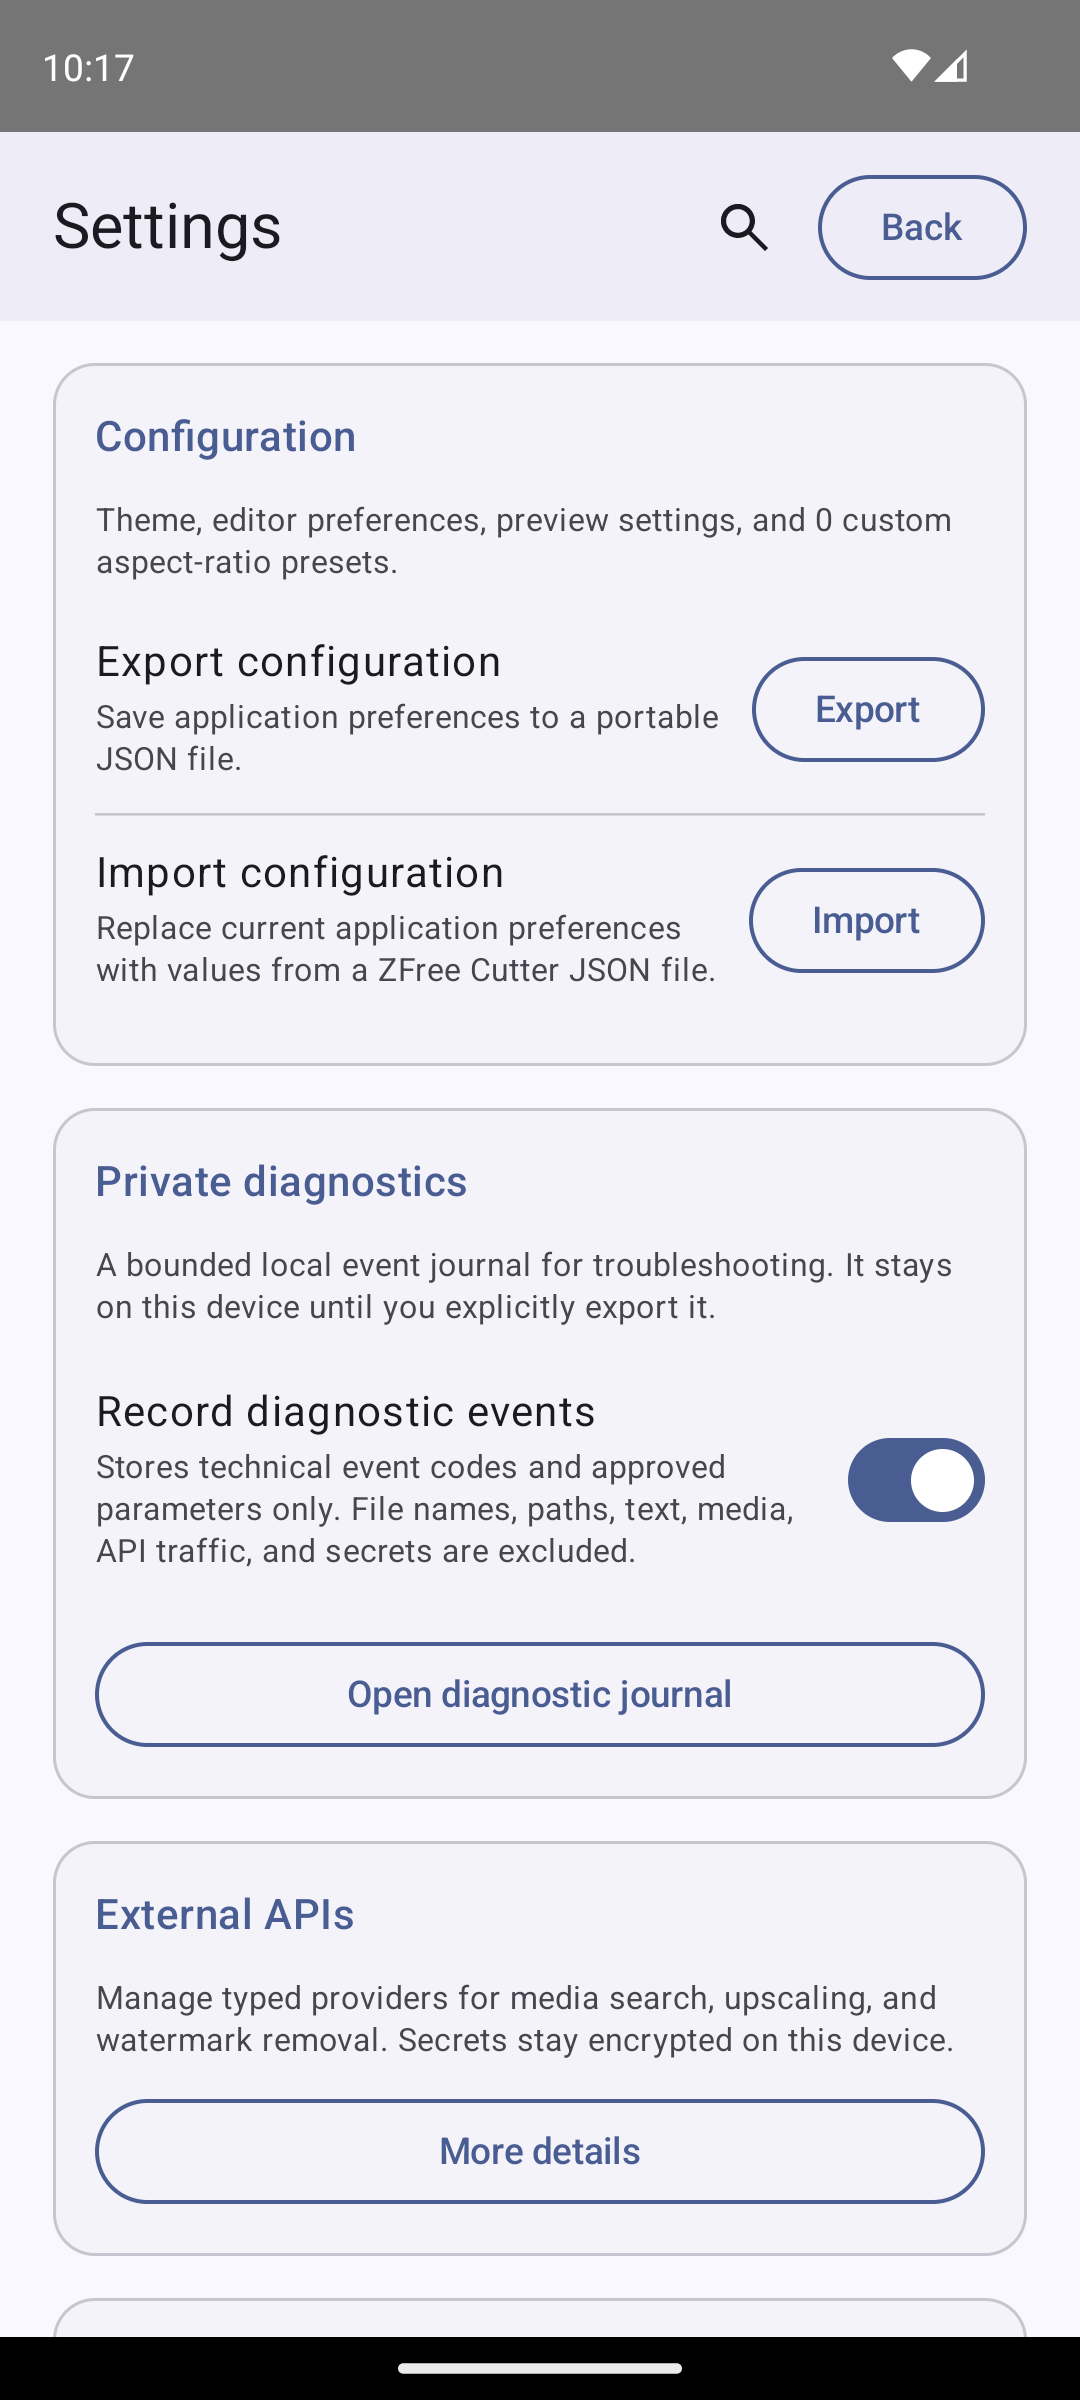
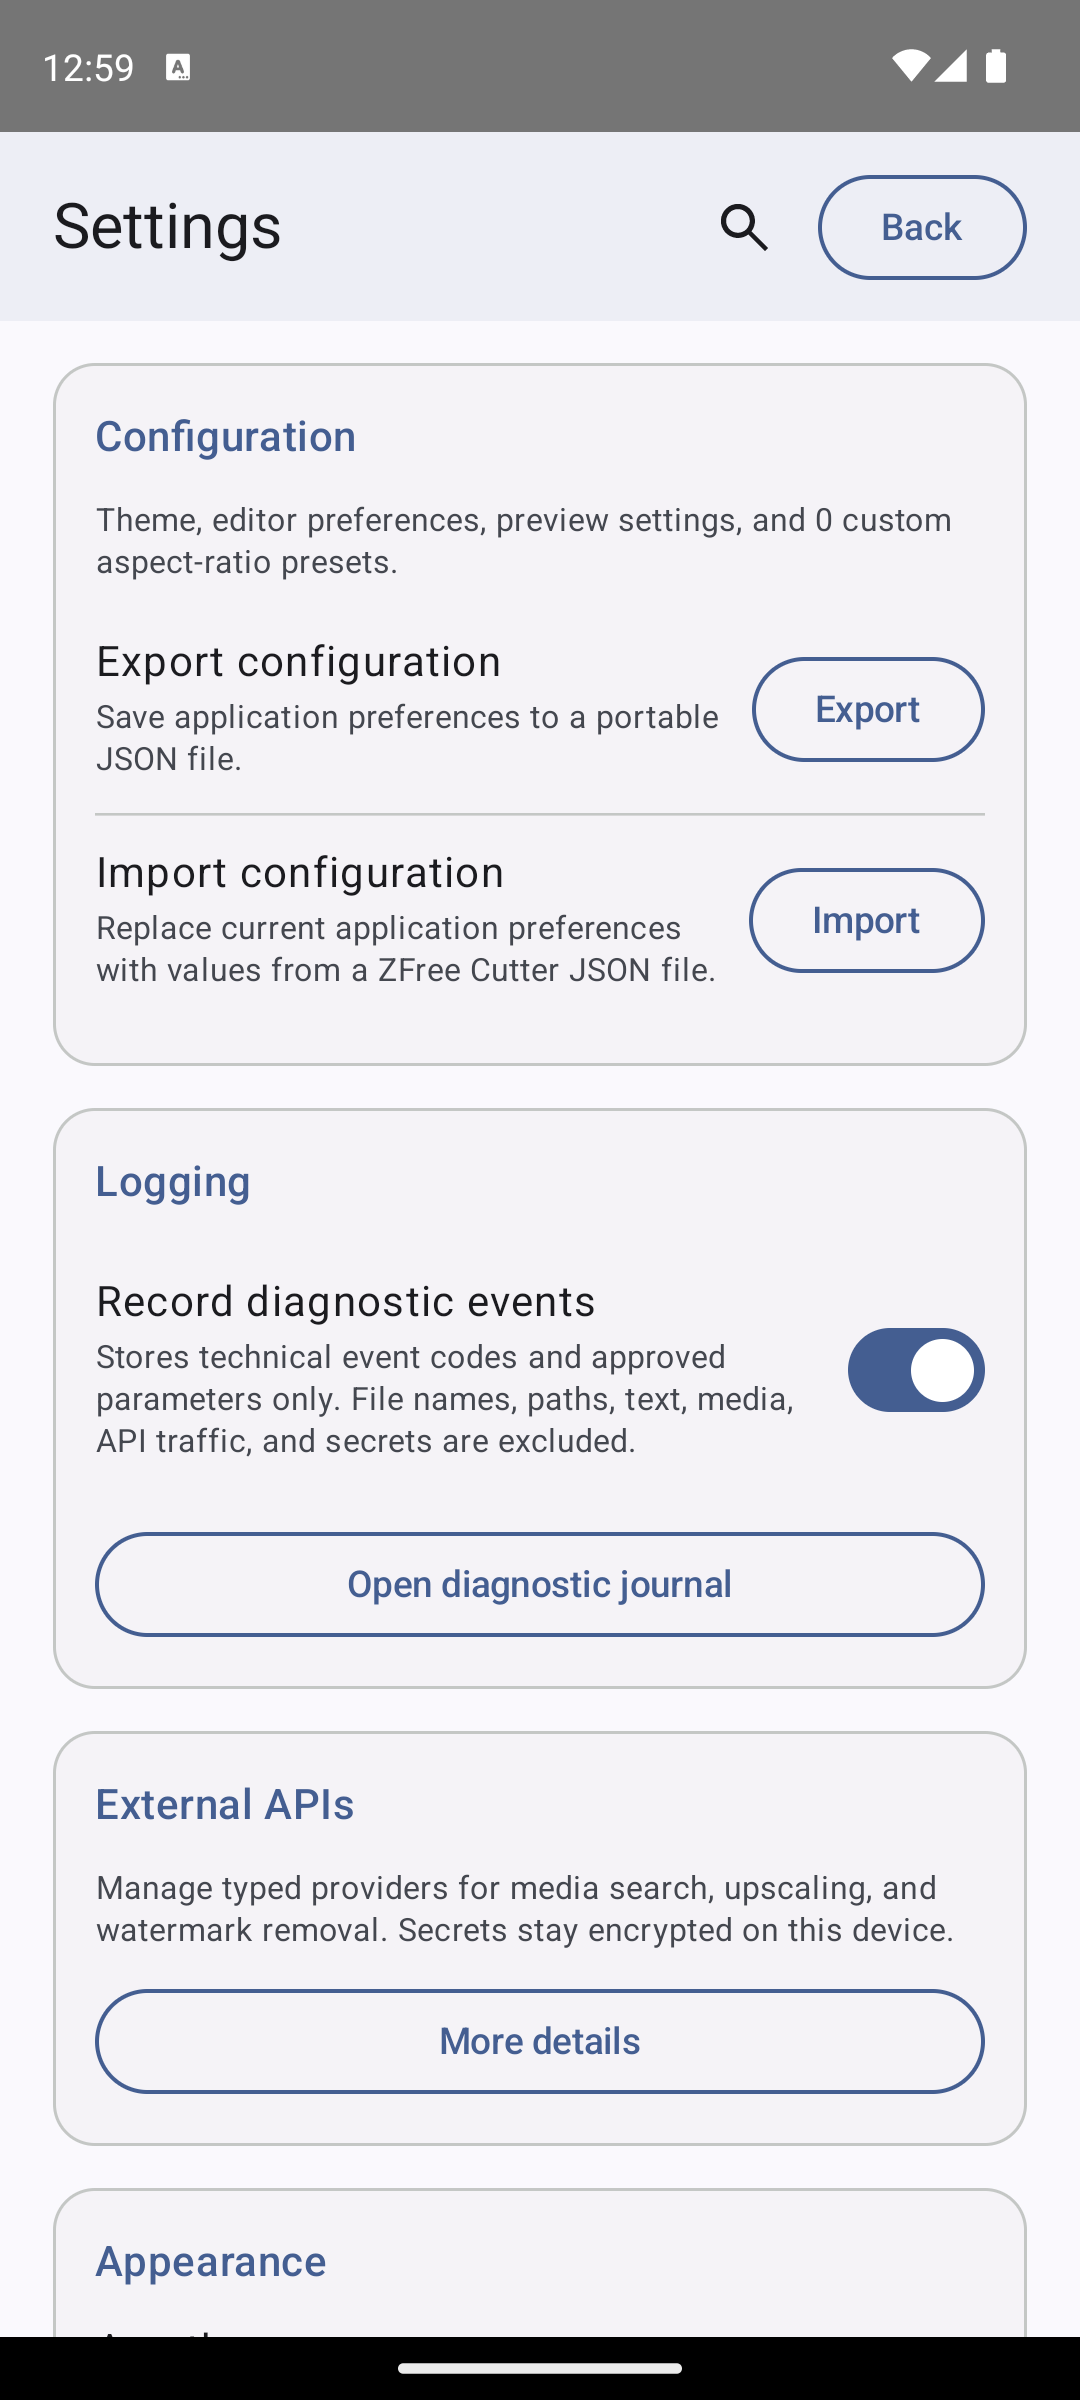
Update website for 0.5.2

diff --git a/app/page.tsx b/app/page.tsx
@@ -25,7 +25,7 @@ const copy = {
       titleA: "Обрежь лишнее.",
       titleB: "Оставь момент.",
       text: "Открой видео, фото или GIF, внеси нужные правки и сохрани результат. Всё происходит прямо на телефоне — понятно и без лишних шагов.",
-      download: "Скачать v0.5.1",
+      download: "Скачать v0.5.2",
       source: "Открыть код",
       note: "Бесплатно · Open source · без подписки",
       local: "Обработка на устройстве",
@@ -42,7 +42,7 @@ const copy = {
         label: "Видео",
         title: "Всё нужное для короткого монтажа",
         text: "Обрежь фрагмент, измени скорость, добавь эффект, текст, изображение или звук. Все изменения собраны на одном таймлайне.",
-        points: ["MP4 / H.264 / AAC", "Стабильный тяжёлый preview", "Фокус звука и фоновые уведомления"],
+        points: ["MP4 / H.264 / AAC", "Cyberpunk и Mixed glitch", "Фокус звука и фоновые уведомления"],
       },
       photo: {
         label: "Фото",
@@ -64,7 +64,7 @@ const copy = {
       names: ["Главная", "Медиатека", "Онлайн-медиа", "Редактор", "Эффекты", "Экспорт", "Настройки"],
     },
     final: {
-      eyebrow: "Версия 0.5.1 · Android 10+",
+      eyebrow: "Версия 0.5.2 · Android 10+",
       title: "Медиа уже на телефоне. Редактор тоже может быть там.",
       download: "Скачать APK",
       changelog: "Что нового",
@@ -91,7 +91,7 @@ const copy = {
       titleA: "Cut the noise.",
       titleB: "Keep the moment.",
       text: "Open a video, photo, or GIF, make the changes you need, and save the result. Everything happens right on your phone, without unnecessary steps.",
-      download: "Download v0.5.1",
+      download: "Download v0.5.2",
       source: "View source",
       note: "Free · Open source · no subscription",
       local: "On-device processing",
@@ -108,7 +108,7 @@ const copy = {
         label: "Video",
         title: "Everything you need for a quick edit",
         text: "Trim a clip, change its speed, and add effects, text, images, or audio. Every change lives on one timeline.",
-        points: ["MP4 / H.264 / AAC", "Stable heavy-media preview", "Audio focus and export notifications"],
+        points: ["MP4 / H.264 / AAC", "Cyberpunk and Mixed glitch", "Audio focus and export notifications"],
       },
       photo: {
         label: "Photo",
@@ -130,7 +130,7 @@ const copy = {
       names: ["Home", "Library", "Online media", "Editor", "Effects", "Export", "Settings"],
     },
     final: {
-      eyebrow: "Version 0.5.1 · Android 10+",
+      eyebrow: "Version 0.5.2 · Android 10+",
       title: "Your media lives on your phone. Your editor can too.",
       download: "Download APK",
       changelog: "What’s new",
@@ -402,7 +402,7 @@ export default function Home() {
             <p className="final-note">{t.final.note}</p>
             <div className="final-links">
               <a href={`${REPOSITORY_URL}/issues`} target="_blank" rel="noreferrer">{t.final.issues}</a>
-              <a href={`${REPOSITORY_URL}/releases/tag/v0.5.1`} target="_blank" rel="noreferrer">{t.final.changelog}</a>
+              <a href={`${REPOSITORY_URL}/releases/tag/v0.5.2`} target="_blank" rel="noreferrer">{t.final.changelog}</a>
             </div>
           </div>
           <div className="final-mark" aria-hidden="true">

diff --git a/app/layout.tsx b/app/layout.tsx
@@ -18,7 +18,7 @@ export const metadata: Metadata = {
   metadataBase: new URL(siteUrl),
   title: "ZFree Cutter — media editor for Android",
   description:
-    "ZFree Cutter 0.5.1 is an open-source Android editor for video, photos, and GIFs with precise crop, effects, exact GIF sizing, and on-device export.",
+    "ZFree Cutter 0.5.2 is an open-source Android editor for video, photos, and GIFs with precise crop, effects, API provider management, and on-device export.",
   applicationName: "ZFree Cutter",
   authors: [{ name: "zmorok", url: "https://github.com/zmorok" }],
   keywords: ["Android", "video editor", "photo editor", "GIF editor", "open source", "Kotlin"],
@@ -29,7 +29,7 @@ export const metadata: Metadata = {
   },
   openGraph: {
     title: "ZFree Cutter — Cut the noise. Keep the moment.",
-    description: "Version 0.5.1 of the open-source media editor for Android.",
+    description: "Version 0.5.2 of the open-source media editor for Android.",
     url: siteUrl,
     siteName: "ZFree Cutter",
     locale: "en_US",
